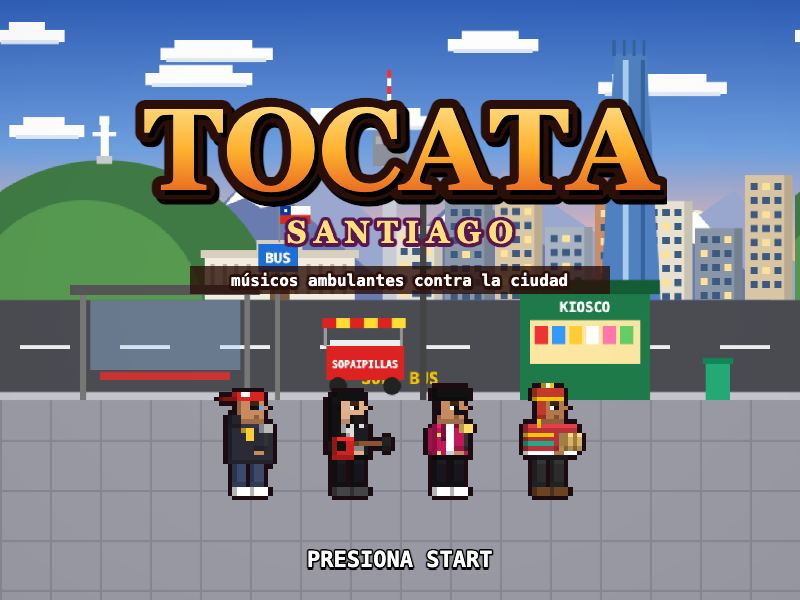
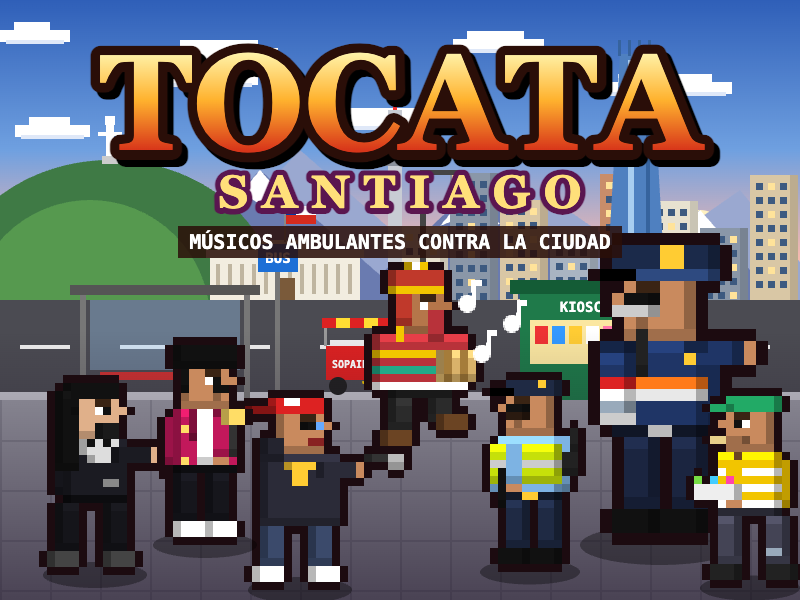
El jefe final de la etapa 5 ahora es el guardia municipal, y cover nuevo con Santiago a color

diff --git a/game.js b/game.js
@@ -58,7 +58,7 @@ const LK = [
   ['#b5764a', '#27c', '#eee', '#357', '#222'],
   ['#e0b08a', '#421', '#e88', '#536', '#222'],
   ['#c98a5e', '#1f2a44', '#7db3e3', '#1f2a44', '#111'],
-  ['#c98a5e', '#a11', '#33203a', '#33203a', '#111'],
+  ['#c98a5e', '#1b2a4a', '#1f3566', '#1b2540', '#111'],
   ['#c98a5e', '#1f7a4a', '#eee', '#5a4632', '#222'], // 9 kioskero
   ['#b5764a', '#111', '#7db3e3', '#1f2a44', '#111'], // 10 micrero
   ['#e0b08a', '#111', '#fff', '#111', '#111'], // 11 guardia del súper
@@ -73,7 +73,7 @@ const EN = {
   M: { k: 10, hp: 75, spd: 100, dmg: 14, rng: 200, sc: 1.5, b: 2, nm: 'EL MICRERO MALA ONDA', say: ['¡CÓRRASE AL FONDO!'] },
   U: { k: 11, hp: 90, spd: 80, dmg: 16, rng: 80, sc: 1.9, b: 3, nm: 'GUARDIA GIGANTE DEL SÚPER', say: ['¡MUESTRE LA BOLETA!'] },
   V: { k: 12, hp: 100, spd: 135, dmg: 9, rng: 250, sc: 1.5, b: 4, nm: 'EL VENDEDOR MALA ONDA', say: ['¡TODO A LUCA, CASERITO!'] },
-  B: { k: 8, hp: 130, spd: 95, dmg: 18, rng: 90, sc: 2, b: 5, nm: 'GUARDIA GIGANTE DEL METRO', say: ['¡DESALOJEN!', '¡MULTA!', '¿Y EL PERMISO MUNICIPAL?'] },
+  B: { k: 8, hp: 130, spd: 95, dmg: 18, rng: 90, sc: 2, b: 5, nm: 'EL GUARDIA MUNICIPAL', say: ['¡DESALOJEN!', '¡MULTA!', '¿Y EL PERMISO MUNICIPAL?'] },
 };
 const ST = [
   { n: 'LA ALAMEDA', b: 'b0', f: 'f0', p: 1, a: 0, w: ['cc', 'ccac', 'cdcac', 'K'] },
@@ -167,7 +167,7 @@ function dude(x, k, f) {
     u(2, 8, 12, 7, tp); u(2, 10, 12, 1, '#f2c500'); u(2, 12, 12, 1, '#2a8'); u(2, 14, 12, 1, '#fff');
     u(4, 0, 7, 3, hr); u(4, 2, 7, 1, '#f2c500'); u(5, 3, 2, 4, hr); u(5, 7, 1, 2, '#f2c500'); u(6, -1, 3, 1, '#f2c500'); u(7, -1, 1, 1, '#fff');
   }
-  // guatita para los grandotes: agüita, guardia e inspector
+  // guatita para los grandotes: agüita, guardia y guardia municipal
   if (k == 5 || k > 6) { u(10, 9, 3, 6, tp); u(3, 8, 2, 3, tp); }
   if (k == 4) { // chiclero: flaco, jockey, polera a rayas, mondadientes, caja colgando del cuello
     u(4, 1, 7, 2, hr); u(10, 2, 3, 1, hr); u(8, 6, 3, 1, dk(sk, 0.8)); u(11, 6, 2, 1, '#e8d08a');
@@ -186,11 +186,13 @@ function dude(x, k, f) {
     u(4, 1, 7, 2, hr); u(10, 2, 3, 1, '#000'); u(6, 1, 1, 1, '#fc3'); u(8, 4, 3, 1, '#111'); u(8, 5, 3, 1, '#2a1a10');
     u(4, 9, 9, 5, '#c6e00a'); u(4, 11, 9, 1, '#ccc'); u(7, 15, 2, 1, '#fc3'); u(2, 10, 2, 3, '#222'); u(2, 7, 1, 3, '#222');
   }
-  if (k == 8) { // inspector jefe: quepis con galón, bigotazo, charreteras, medallas, corbata, pito
-    u(3, 0, 9, 2, hr); u(3, 2, 9, 1, '#fc3'); u(10, 3, 3, 1, '#000'); u(8, 5, 4, 1, '#eee'); u(7, 6, 1, 1, '#eee');
-    u(3, 8, 3, 1, '#fc3'); u(10, 8, 3, 1, '#fc3'); u(7, 8, 2, 2, '#fff'); u(7, 10, 1, 4, '#d22');
-    u(5, 10, 1, 2, '#3af'); u(5, 12, 1, 1, '#fc3'); u(11, 11, 1, 1, '#fc3'); u(9, 9, 1, 3, '#ddd'); u(9, 12, 1, 1, '#bbb');
+  if (k == 8) { // guardia municipal: gorra con escudo, parka azul con franjas reflectantes, radio al pecho, lentes
+    u(3, 0, 9, 2, hr); u(3, 2, 9, 1, '#2e4a80'); u(10, 2, 3, 1, '#000'); u(6, 0, 2, 2, '#fc3');
+    u(8, 4, 3, 1, '#111'); u(8, 5, 4, 1, '#ccc');
+    u(3, 8, 3, 1, dk(tp, 0.7)); u(10, 8, 3, 1, dk(tp, 0.7)); u(4, 11, 9, 1, '#ff7a1a'); u(4, 12, 9, 1, '#e8e8e8');
+    u(5, 9, 1, 1, '#fc3'); u(9, 8, 1, 3, '#222'); u(9, 7, 1, 1, '#222'); u(7, 15, 2, 1, '#bbb');
   }
+
   // jefes: kioskero (delantal y bigote), micrero (corbata y lentes), guardia del súper (chaleco negro), vendedor (saco al hombro)
   if (k == 9 || k > 10) { u(4, 1, 7, 2, hr); u(10, 2, 3, 1, hr); }
   if (k == 9) { u(5, 10, 6, 7, hr); u(7, 13, 2, 2, '#fbe7a1'); }
@@ -223,7 +225,7 @@ function dude(x, k, f) {
   if (k == 5) { u(9, 12, 5, 5, '#27c'); u(9, 12, 5, 1, '#fff'); if (A) u(16, 7, 1, 3, '#8df'); }
   if (k == 6) { u(9, 12, 6, 3, '#a63'); u(10, 11, 1, 1, '#f44'); u(12, 11, 1, 1, '#fd4'); u(14, 11, 1, 1, '#4c8'); }
   if (k == 7 || k == 11) { if (A) u(16, 9, 5, 1, '#111'); else u(11, 12, 1, 5, '#111'); }
-  if (k == 8 && !A) { u(10, 11, 3, 4, '#a63'); u(10, 11, 3, 3, '#fff'); }
+  if (k == 8 && !A) { u(10, 11, 3, 4, '#fff'); u(10, 11, 3, 1, '#d22'); u(10, 13, 3, 1, '#9ab'); }
   if (k == 9) { if (A) u(16, 8, 5, 2, '#ddd'); else u(10, 11, 2, 6, '#ddd'); }
   if (k == 10) { const a = A ? 16 : 10, b = A ? 6 : 11; u(a, b, 5, 1, '#222'); u(a, b + 4, 5, 1, '#222'); u(a, b, 1, 5, '#222'); u(a + 4, b, 1, 5, '#222'); }
   if (k == 12) { if (A) u(16, 7, 2, 4, '#f7a'); else u(10, 11, 2, 4, '#f7a'); }
